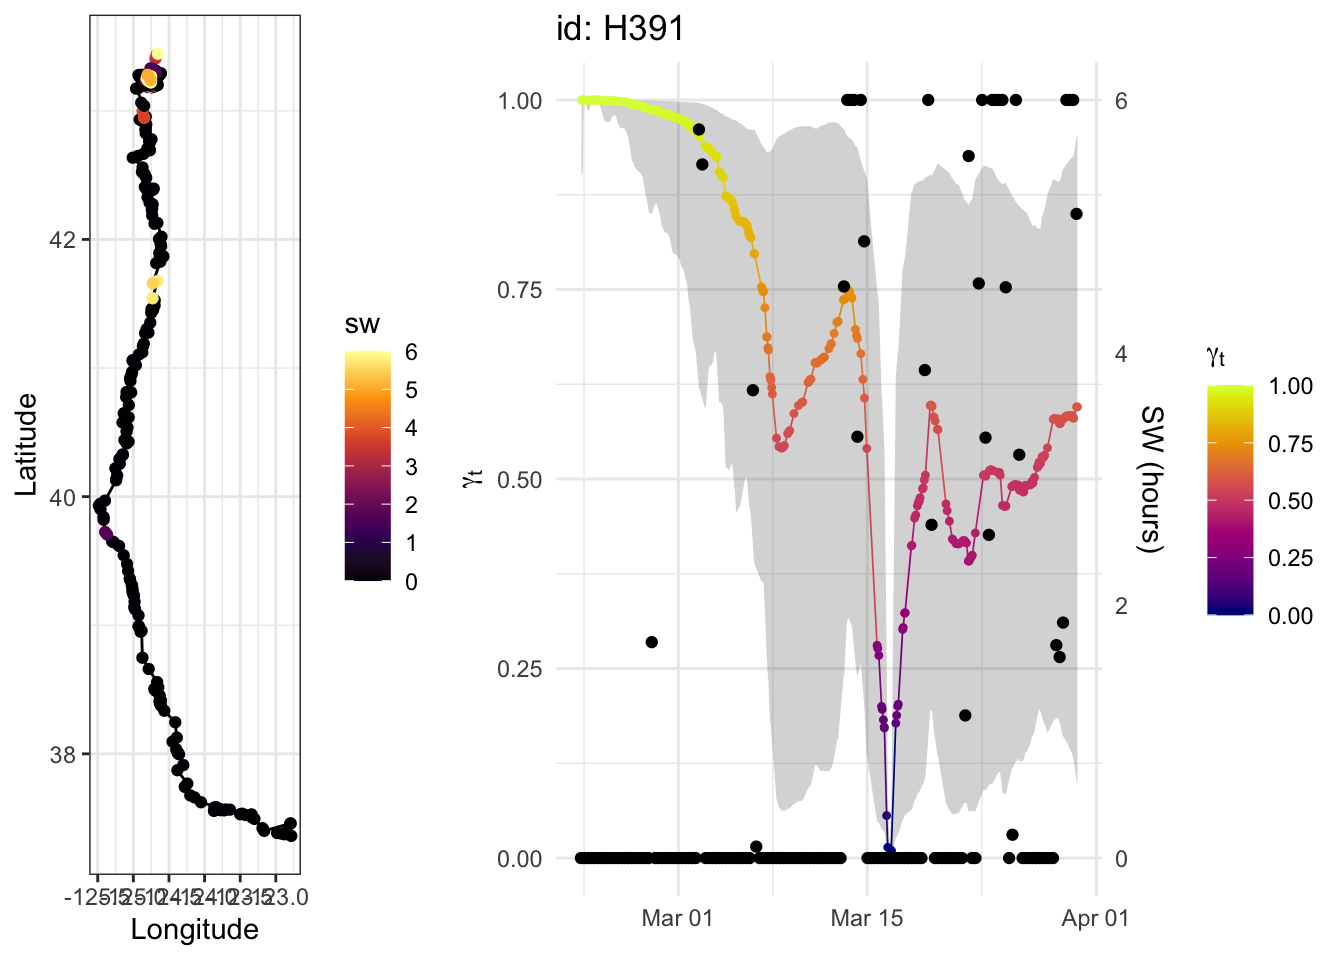
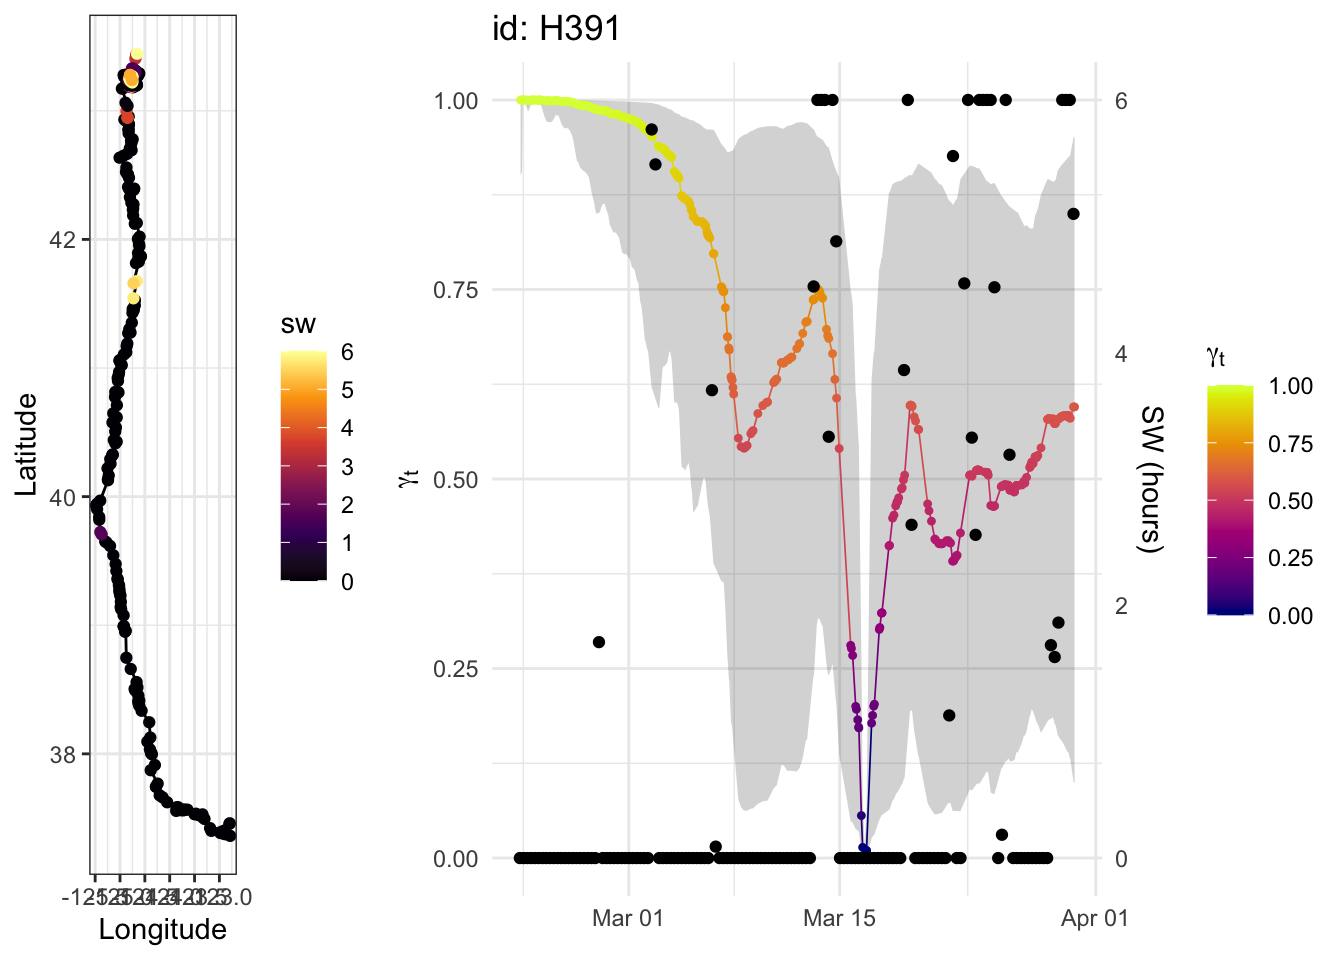
fixing the broad scale - breakpoint style

diff --git a/docs/broad-sw-new.html b/docs/broad-sw-new.html
@@ -264,11 +264,156 @@ H391
 <span id="cb12-2"><a href="#cb12-2" aria-hidden="true" tabindex="-1"></a>  <span class="fu">geom_point</span>(<span class="fu">aes</span>(date, SW <span class="sc">/</span> <span class="fu">max</span>(SW)), acou_agg_valid) <span class="sc">+</span></span>
 <span id="cb12-3"><a href="#cb12-3" aria-hidden="true" tabindex="-1"></a>  <span class="fu">scale_y_continuous</span>(<span class="at">sec.axis =</span> <span class="fu">sec_axis</span>(<span class="sc">~</span> . <span class="sc">*</span> <span class="fu">max</span>(acou_agg_valid<span class="sc">$</span>SW), <span class="at">name =</span> <span class="st">"SW (hours)"</span>))</span>
 <span id="cb12-4"><a href="#cb12-4" aria-hidden="true" tabindex="-1"></a></span>
-<span id="cb12-5"><a href="#cb12-5" aria-hidden="true" tabindex="-1"></a>cowplot<span class="sc">::</span><span class="fu">plot_grid</span>(track_overlap_sw, p_sw, <span class="at">ncol =</span> <span class="dv">2</span>, <span class="at">rel_widths =</span> <span class="fu">c</span>(<span class="dv">1</span>, <span class="dv">2</span>))</span></code></pre></div><button title="Copy to Clipboard" class="code-copy-button"><i class="bi"></i></button></div>
+<span id="cb12-5"><a href="#cb12-5" aria-hidden="true" tabindex="-1"></a>cowplot<span class="sc">::</span><span class="fu">plot_grid</span>(track_overlap_sw, p_sw, <span class="at">ncol =</span> <span class="dv">2</span>, <span class="at">rel_widths =</span> <span class="fu">c</span>(<span class="dv">2</span>, <span class="dv">5</span>))</span></code></pre></div><button title="Copy to Clipboard" class="code-copy-button"><i class="bi"></i></button></div>
 <div class="cell-output-display">
 <div>
 <figure class="figure">
 <p><img src="broad-sw-new_files/figure-html/unnamed-chunk-3-1.png" class="img-fluid figure-img" width="672"></p>
+</figure>
+</div>
+</div>
+</div>
+<p>Look at the change in the mean of SW detections over time using a breakpoint model.</p>
+<div class="cell">
+<div class="code-copy-outer-scaffold"><div class="sourceCode cell-code" id="cb13"><pre class="sourceCode r code-with-copy"><code class="sourceCode r"><span id="cb13-1"><a href="#cb13-1" aria-hidden="true" tabindex="-1"></a><span class="fu">library</span>(changepoint)</span></code></pre></div><button title="Copy to Clipboard" class="code-copy-button"><i class="bi"></i></button></div>
+<div class="cell-output cell-output-stderr">
+<pre><code>Loading required package: zoo</code></pre>
+</div>
+<div class="cell-output cell-output-stderr">
+<pre><code>
+Attaching package: 'zoo'</code></pre>
+</div>
+<div class="cell-output cell-output-stderr">
+<pre><code>The following object is masked from 'package:terra':
+
+    time&lt;-</code></pre>
+</div>
+<div class="cell-output cell-output-stderr">
+<pre><code>The following objects are masked from 'package:base':
+
+    as.Date, as.Date.numeric</code></pre>
+</div>
+<div class="cell-output cell-output-stderr">
+<pre><code>Successfully loaded changepoint package version 2.3
+ WARNING: From v.2.3 the default method in cpt.* functions has changed from AMOC to PELT.
+ See NEWS for details of all changes.</code></pre>
+</div>
+<div class="cell-output cell-output-stderr">
+<pre><code>
+Attaching package: 'changepoint'</code></pre>
+</div>
+<div class="cell-output cell-output-stderr">
+<pre><code>The following object is masked from 'package:terra':
+
+    nseg</code></pre>
+</div>
+<div class="code-copy-outer-scaffold"><div class="sourceCode cell-code" id="cb21"><pre class="sourceCode r code-with-copy"><code class="sourceCode r"><span id="cb21-1"><a href="#cb21-1" aria-hidden="true" tabindex="-1"></a>sw_cpt <span class="ot">&lt;-</span> <span class="fu">cpt.mean</span>(acou_agg_valid<span class="sc">$</span>SW, <span class="at">method =</span> <span class="st">"AMOC"</span>)</span>
+<span id="cb21-2"><a href="#cb21-2" aria-hidden="true" tabindex="-1"></a>breakpoint_date <span class="ot">&lt;-</span> acou_agg_valid<span class="sc">$</span>date[sw_cpt<span class="sc">@</span>cpts[<span class="dv">1</span>]]</span>
+<span id="cb21-3"><a href="#cb21-3" aria-hidden="true" tabindex="-1"></a>sw_segs <span class="ot">&lt;-</span> <span class="fu">tibble</span>(</span>
+<span id="cb21-4"><a href="#cb21-4" aria-hidden="true" tabindex="-1"></a>  <span class="at">seg_start =</span> acou_agg_valid<span class="sc">$</span>date[<span class="fu">c</span>(<span class="dv">1</span>, sw_cpt<span class="sc">@</span>cpts[<span class="dv">1</span>])],</span>
+<span id="cb21-5"><a href="#cb21-5" aria-hidden="true" tabindex="-1"></a>  <span class="at">seg_end =</span> acou_agg_valid<span class="sc">$</span>date[<span class="fu">c</span>(sw_cpt<span class="sc">@</span>cpts[<span class="dv">1</span>], <span class="fu">nrow</span>(acou_agg_valid))],</span>
+<span id="cb21-6"><a href="#cb21-6" aria-hidden="true" tabindex="-1"></a>  <span class="at">seg_mean =</span> sw_cpt<span class="sc">@</span>param.est<span class="sc">$</span>mean</span>
+<span id="cb21-7"><a href="#cb21-7" aria-hidden="true" tabindex="-1"></a>)</span>
+<span id="cb21-8"><a href="#cb21-8" aria-hidden="true" tabindex="-1"></a></span>
+<span id="cb21-9"><a href="#cb21-9" aria-hidden="true" tabindex="-1"></a><span class="fu">ggplot</span>(acou_agg_valid, <span class="fu">aes</span>(<span class="at">x =</span> date, <span class="at">y =</span> SW)) <span class="sc">+</span></span>
+<span id="cb21-10"><a href="#cb21-10" aria-hidden="true" tabindex="-1"></a>  <span class="fu">geom_point</span>(<span class="at">alpha =</span> <span class="fl">0.4</span>) <span class="sc">+</span></span>
+<span id="cb21-11"><a href="#cb21-11" aria-hidden="true" tabindex="-1"></a>  <span class="fu">geom_segment</span>(<span class="fu">aes</span>(<span class="at">x =</span> seg_start, <span class="at">xend =</span> seg_end, <span class="at">y =</span> seg_mean, <span class="at">yend =</span> seg_mean),</span>
+<span id="cb21-12"><a href="#cb21-12" aria-hidden="true" tabindex="-1"></a>               sw_segs,</span>
+<span id="cb21-13"><a href="#cb21-13" aria-hidden="true" tabindex="-1"></a>               <span class="at">linetype =</span> <span class="st">"dashed"</span>,</span>
+<span id="cb21-14"><a href="#cb21-14" aria-hidden="true" tabindex="-1"></a>               <span class="at">color =</span> <span class="st">"hotpink"</span>,</span>
+<span id="cb21-15"><a href="#cb21-15" aria-hidden="true" tabindex="-1"></a>               <span class="at">linewidth =</span> <span class="fl">1.2</span>) <span class="sc">+</span></span>
+<span id="cb21-16"><a href="#cb21-16" aria-hidden="true" tabindex="-1"></a>  <span class="fu">geom_vline</span>(<span class="at">xintercept =</span> breakpoint_date, </span>
+<span id="cb21-17"><a href="#cb21-17" aria-hidden="true" tabindex="-1"></a>             <span class="at">linetype =</span> <span class="st">"dotted"</span>, </span>
+<span id="cb21-18"><a href="#cb21-18" aria-hidden="true" tabindex="-1"></a>             <span class="at">color =</span> <span class="st">"hotpink"</span>, </span>
+<span id="cb21-19"><a href="#cb21-19" aria-hidden="true" tabindex="-1"></a>             <span class="at">linewidth =</span> <span class="fl">1.2</span>) <span class="sc">+</span></span>
+<span id="cb21-20"><a href="#cb21-20" aria-hidden="true" tabindex="-1"></a>  <span class="fu">labs</span>(<span class="at">x =</span> <span class="cn">NULL</span>, <span class="at">y =</span> <span class="st">"SW detections"</span>) <span class="sc">+</span></span>
+<span id="cb21-21"><a href="#cb21-21" aria-hidden="true" tabindex="-1"></a>  <span class="fu">theme_classic</span>()</span></code></pre></div><button title="Copy to Clipboard" class="code-copy-button"><i class="bi"></i></button></div>
+<div class="cell-output-display">
+<div>
+<figure class="figure">
+<p><img src="broad-sw-new_files/figure-html/sw-change-1.png" class="img-fluid figure-img" width="672"></p>
+</figure>
+</div>
+</div>
+</div>
+<p>Compare to a breakpoint model for the mixed layer temperature.</p>
+<div class="cell">
+<div class="code-copy-outer-scaffold"><div class="sourceCode cell-code" id="cb22"><pre class="sourceCode r code-with-copy"><code class="sourceCode r"><span id="cb22-1"><a href="#cb22-1" aria-hidden="true" tabindex="-1"></a><span class="co">#mixed layer temperature - using average MLT and minimum temperature from this file</span></span>
+<span id="cb22-2"><a href="#cb22-2" aria-hidden="true" tabindex="-1"></a>mlt <span class="ot">&lt;-</span> <span class="fu">read_csv</span>(here<span class="sc">::</span><span class="fu">here</span>(<span class="st">"data/23A1302/out-MixLayer.csv"</span>))</span></code></pre></div><button title="Copy to Clipboard" class="code-copy-button"><i class="bi"></i></button></div>
+<div class="cell-output cell-output-stderr">
+<pre><code>Rows: 236 Columns: 21
+── Column specification ────────────────────────────────────────────────────────
+Delimiter: ","
+chr  (4): DeployID, Source, Instr, Date
+dbl (14): Ptt, DepthSensor, Hours, PerCentMLTime, MLTave, MLTmin, MLTmax, ML...
+lgl  (3): LocationQuality, Latitude, Longitude
+
+ℹ Use `spec()` to retrieve the full column specification for this data.
+ℹ Specify the column types or set `show_col_types = FALSE` to quiet this message.</code></pre>
+</div>
+<div class="code-copy-outer-scaffold"><div class="sourceCode cell-code" id="cb24"><pre class="sourceCode r code-with-copy"><code class="sourceCode r"><span id="cb24-1"><a href="#cb24-1" aria-hidden="true" tabindex="-1"></a>mlt <span class="ot">&lt;-</span> mlt <span class="sc">%&gt;%</span> </span>
+<span id="cb24-2"><a href="#cb24-2" aria-hidden="true" tabindex="-1"></a>  <span class="fu">mutate</span>(<span class="at">date =</span> <span class="fu">as.POSIXct</span>(Date, </span>
+<span id="cb24-3"><a href="#cb24-3" aria-hidden="true" tabindex="-1"></a>                        <span class="at">format =</span> <span class="st">"%H:%M:%S %d-%b-%Y"</span>, </span>
+<span id="cb24-4"><a href="#cb24-4" aria-hidden="true" tabindex="-1"></a>                        <span class="at">tz =</span> <span class="st">"UTC"</span>),</span>
+<span id="cb24-5"><a href="#cb24-5" aria-hidden="true" tabindex="-1"></a>         <span class="at">date_num =</span> <span class="fu">as.numeric</span>(date <span class="sc">-</span> date[<span class="dv">1</span>], <span class="at">unit =</span> <span class="st">"days"</span>),</span>
+<span id="cb24-6"><a href="#cb24-6" aria-hidden="true" tabindex="-1"></a>         <span class="at">id =</span> <span class="st">"H391"</span>) <span class="sc">%&gt;%</span> </span>
+<span id="cb24-7"><a href="#cb24-7" aria-hidden="true" tabindex="-1"></a>   <span class="fu">filter</span>(<span class="fu">between</span>(date, </span>
+<span id="cb24-8"><a href="#cb24-8" aria-hidden="true" tabindex="-1"></a>                  <span class="fu">first</span>(acou_agg_valid<span class="sc">$</span>date2), </span>
+<span id="cb24-9"><a href="#cb24-9" aria-hidden="true" tabindex="-1"></a>                  <span class="fu">last</span>(acou_agg_valid<span class="sc">$</span>date)))</span>
+<span id="cb24-10"><a href="#cb24-10" aria-hidden="true" tabindex="-1"></a></span>
+<span id="cb24-11"><a href="#cb24-11" aria-hidden="true" tabindex="-1"></a><span class="co"># There's one clear outlier in MLT temperature, remove it and interpolate</span></span>
+<span id="cb24-12"><a href="#cb24-12" aria-hidden="true" tabindex="-1"></a>outlier_idx <span class="ot">&lt;-</span> <span class="fu">which</span>(mlt<span class="sc">$</span>MLTave <span class="sc">&gt;</span> <span class="dv">14</span>)</span>
+<span id="cb24-13"><a href="#cb24-13" aria-hidden="true" tabindex="-1"></a>mlt<span class="sc">$</span>MLTave[outlier_idx] <span class="ot">&lt;-</span> <span class="fu">mean</span>(mlt<span class="sc">$</span>MLTave[outlier_idx <span class="sc">+</span> <span class="fu">c</span>(<span class="sc">-</span><span class="dv">1</span>, <span class="dv">1</span>)])</span>
+<span id="cb24-14"><a href="#cb24-14" aria-hidden="true" tabindex="-1"></a>mlt<span class="sc">$</span>MLTave_std <span class="ot">&lt;-</span> (mlt<span class="sc">$</span>MLTave <span class="sc">-</span> <span class="fu">mean</span>(mlt<span class="sc">$</span>MLTave)) <span class="sc">/</span> <span class="fu">sd</span>(mlt<span class="sc">$</span>MLTave)</span>
+<span id="cb24-15"><a href="#cb24-15" aria-hidden="true" tabindex="-1"></a></span>
+<span id="cb24-16"><a href="#cb24-16" aria-hidden="true" tabindex="-1"></a>mlt_cpt <span class="ot">&lt;-</span> <span class="fu">cpt.reg</span>(<span class="fu">cbind</span>(mlt<span class="sc">$</span>MLTave, <span class="dv">1</span>, mlt<span class="sc">$</span>date_num), <span class="at">method =</span> <span class="st">"AMOC"</span>)</span>
+<span id="cb24-17"><a href="#cb24-17" aria-hidden="true" tabindex="-1"></a>mlt_cpt_date <span class="ot">&lt;-</span> mlt<span class="sc">$</span>date[mlt_cpt<span class="sc">@</span>cpts[<span class="dv">1</span>]]</span>
+<span id="cb24-18"><a href="#cb24-18" aria-hidden="true" tabindex="-1"></a>b <span class="ot">&lt;-</span> <span class="fu">param.est</span>(mlt_cpt)<span class="sc">$</span>beta</span>
+<span id="cb24-19"><a href="#cb24-19" aria-hidden="true" tabindex="-1"></a>mlt_segs <span class="ot">&lt;-</span> <span class="fu">tibble</span>(</span>
+<span id="cb24-20"><a href="#cb24-20" aria-hidden="true" tabindex="-1"></a>  <span class="at">date =</span> mlt<span class="sc">$</span>date[<span class="fu">c</span>(<span class="dv">1</span>, mlt_cpt<span class="sc">@</span>cpts[<span class="dv">1</span>], mlt_cpt<span class="sc">@</span>cpts[<span class="dv">1</span>], <span class="fu">nrow</span>(mlt))],</span>
+<span id="cb24-21"><a href="#cb24-21" aria-hidden="true" tabindex="-1"></a>  <span class="at">date_num =</span> <span class="fu">as.numeric</span>(date <span class="sc">-</span> mlt<span class="sc">$</span>date[<span class="dv">1</span>], <span class="at">unit =</span> <span class="st">"days"</span>),</span>
+<span id="cb24-22"><a href="#cb24-22" aria-hidden="true" tabindex="-1"></a>  <span class="at">seg_num =</span> <span class="fu">c</span>(<span class="dv">1</span>, <span class="dv">1</span>, <span class="dv">2</span>, <span class="dv">2</span>),</span>
+<span id="cb24-23"><a href="#cb24-23" aria-hidden="true" tabindex="-1"></a>  <span class="at">MLTave =</span> <span class="fu">c</span>(b[<span class="dv">1</span>, <span class="dv">1</span>] <span class="sc">+</span> b[<span class="dv">1</span>, <span class="dv">2</span>] <span class="sc">*</span> date_num[<span class="dv">1</span>],</span>
+<span id="cb24-24"><a href="#cb24-24" aria-hidden="true" tabindex="-1"></a>             b[<span class="dv">1</span>, <span class="dv">1</span>] <span class="sc">+</span> b[<span class="dv">1</span>, <span class="dv">2</span>] <span class="sc">*</span> date_num[<span class="dv">2</span>],</span>
+<span id="cb24-25"><a href="#cb24-25" aria-hidden="true" tabindex="-1"></a>             b[<span class="dv">2</span>, <span class="dv">1</span>] <span class="sc">+</span> b[<span class="dv">2</span>, <span class="dv">2</span>] <span class="sc">*</span> date_num[<span class="dv">3</span>],</span>
+<span id="cb24-26"><a href="#cb24-26" aria-hidden="true" tabindex="-1"></a>             b[<span class="dv">2</span>, <span class="dv">1</span>] <span class="sc">+</span> b[<span class="dv">2</span>, <span class="dv">2</span>] <span class="sc">*</span> date_num[<span class="dv">4</span>])</span>
+<span id="cb24-27"><a href="#cb24-27" aria-hidden="true" tabindex="-1"></a>)</span>
+<span id="cb24-28"><a href="#cb24-28" aria-hidden="true" tabindex="-1"></a></span>
+<span id="cb24-29"><a href="#cb24-29" aria-hidden="true" tabindex="-1"></a><span class="fu">ggplot</span>(mlt, <span class="fu">aes</span>(<span class="at">x =</span> date, <span class="at">y =</span> MLTave)) <span class="sc">+</span></span>
+<span id="cb24-30"><a href="#cb24-30" aria-hidden="true" tabindex="-1"></a>  <span class="fu">geom_point</span>(<span class="at">alpha =</span> <span class="fl">0.4</span>) <span class="sc">+</span></span>
+<span id="cb24-31"><a href="#cb24-31" aria-hidden="true" tabindex="-1"></a>  <span class="fu">geom_line</span>(<span class="fu">aes</span>(<span class="at">group =</span> seg_num), </span>
+<span id="cb24-32"><a href="#cb24-32" aria-hidden="true" tabindex="-1"></a>            mlt_segs, </span>
+<span id="cb24-33"><a href="#cb24-33" aria-hidden="true" tabindex="-1"></a>            <span class="at">linetype =</span> <span class="st">"dashed"</span>,</span>
+<span id="cb24-34"><a href="#cb24-34" aria-hidden="true" tabindex="-1"></a>            <span class="at">color =</span> <span class="st">"firebrick"</span>,</span>
+<span id="cb24-35"><a href="#cb24-35" aria-hidden="true" tabindex="-1"></a>            <span class="at">linewidth =</span> <span class="fl">1.2</span>) <span class="sc">+</span></span>
+<span id="cb24-36"><a href="#cb24-36" aria-hidden="true" tabindex="-1"></a>  <span class="fu">geom_vline</span>(<span class="at">xintercept =</span> mlt_cpt_date, </span>
+<span id="cb24-37"><a href="#cb24-37" aria-hidden="true" tabindex="-1"></a>             <span class="at">linetype =</span> <span class="st">"dotted"</span>, </span>
+<span id="cb24-38"><a href="#cb24-38" aria-hidden="true" tabindex="-1"></a>             <span class="at">color =</span> <span class="st">"firebrick"</span>, </span>
+<span id="cb24-39"><a href="#cb24-39" aria-hidden="true" tabindex="-1"></a>             <span class="at">linewidth =</span> <span class="fl">1.2</span>) <span class="sc">+</span></span>
+<span id="cb24-40"><a href="#cb24-40" aria-hidden="true" tabindex="-1"></a>  <span class="fu">labs</span>(<span class="at">x =</span> <span class="cn">NULL</span>, <span class="at">y =</span> <span class="st">"Average Mixed layer temp"</span>) <span class="sc">+</span></span>
+<span id="cb24-41"><a href="#cb24-41" aria-hidden="true" tabindex="-1"></a>  <span class="fu">theme_classic</span>()</span></code></pre></div><button title="Copy to Clipboard" class="code-copy-button"><i class="bi"></i></button></div>
+<div class="cell-output-display">
+<div>
+<figure class="figure">
+<p><img src="broad-sw-new_files/figure-html/mlt-mod-1.png" class="img-fluid figure-img" width="672"></p>
+</figure>
+</div>
+</div>
+</div>
+<div class="cell">
+<div class="code-copy-outer-scaffold"><div class="sourceCode cell-code" id="cb25"><pre class="sourceCode r code-with-copy"><code class="sourceCode r"><span id="cb25-1"><a href="#cb25-1" aria-hidden="true" tabindex="-1"></a>p1 <span class="sc">+</span></span>
+<span id="cb25-2"><a href="#cb25-2" aria-hidden="true" tabindex="-1"></a>  <span class="fu">geom_vline</span>(<span class="at">xintercept =</span> breakpoint_date, </span>
+<span id="cb25-3"><a href="#cb25-3" aria-hidden="true" tabindex="-1"></a>             <span class="at">linetype =</span> <span class="st">"dashed"</span>, </span>
+<span id="cb25-4"><a href="#cb25-4" aria-hidden="true" tabindex="-1"></a>             <span class="at">color =</span> <span class="st">"hotpink"</span>,</span>
+<span id="cb25-5"><a href="#cb25-5" aria-hidden="true" tabindex="-1"></a>             <span class="at">linewidth =</span> <span class="fl">1.2</span>) <span class="sc">+</span></span>
+<span id="cb25-6"><a href="#cb25-6" aria-hidden="true" tabindex="-1"></a>  <span class="fu">geom_vline</span>(<span class="at">xintercept =</span> mlt_cpt_date, </span>
+<span id="cb25-7"><a href="#cb25-7" aria-hidden="true" tabindex="-1"></a>             <span class="at">linetype =</span> <span class="st">"dashed"</span>, </span>
+<span id="cb25-8"><a href="#cb25-8" aria-hidden="true" tabindex="-1"></a>             <span class="at">color =</span> <span class="st">"firebrick"</span>,</span>
+<span id="cb25-9"><a href="#cb25-9" aria-hidden="true" tabindex="-1"></a>             <span class="at">linewidth =</span> <span class="fl">1.2</span>)</span></code></pre></div><button title="Copy to Clipboard" class="code-copy-button"><i class="bi"></i></button></div>
+<div class="cell-output-display">
+<div>
+<figure class="figure">
+<p><img src="broad-sw-new_files/figure-html/unnamed-chunk-4-1.png" class="img-fluid figure-img" width="672"></p>
 </figure>
 </div>
 </div>
